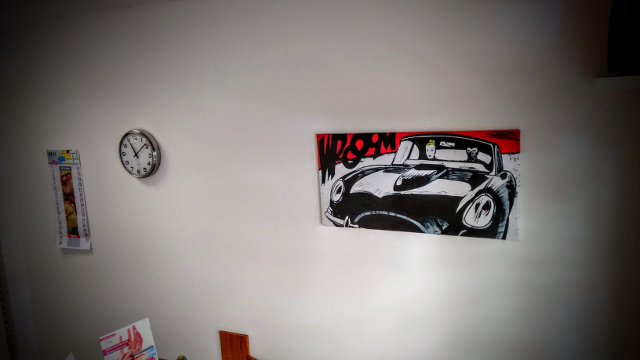
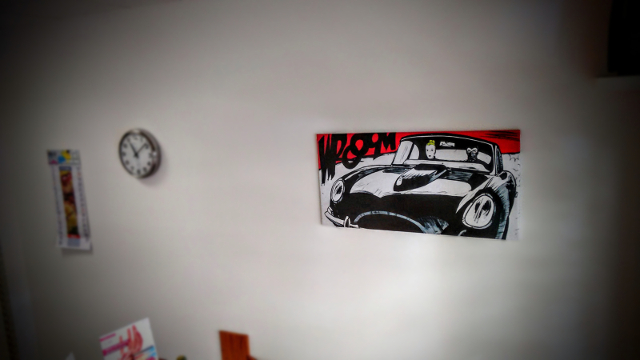
Add intro foto modified.

diff --git a/WebComponent/www/public_html/styles/main.css b/WebComponent/www/public_html/styles/main.css
@@ -1121,7 +1121,7 @@ i[class^="icon-"]::before {
 }
 
 .section-photo-intro {
-    background: url("../images/90srlsWall1px.jpg") center top no-repeat;
+    background: url("../images/90srlsWall.jpg") center top no-repeat;
     background-size: cover;
 }
 
